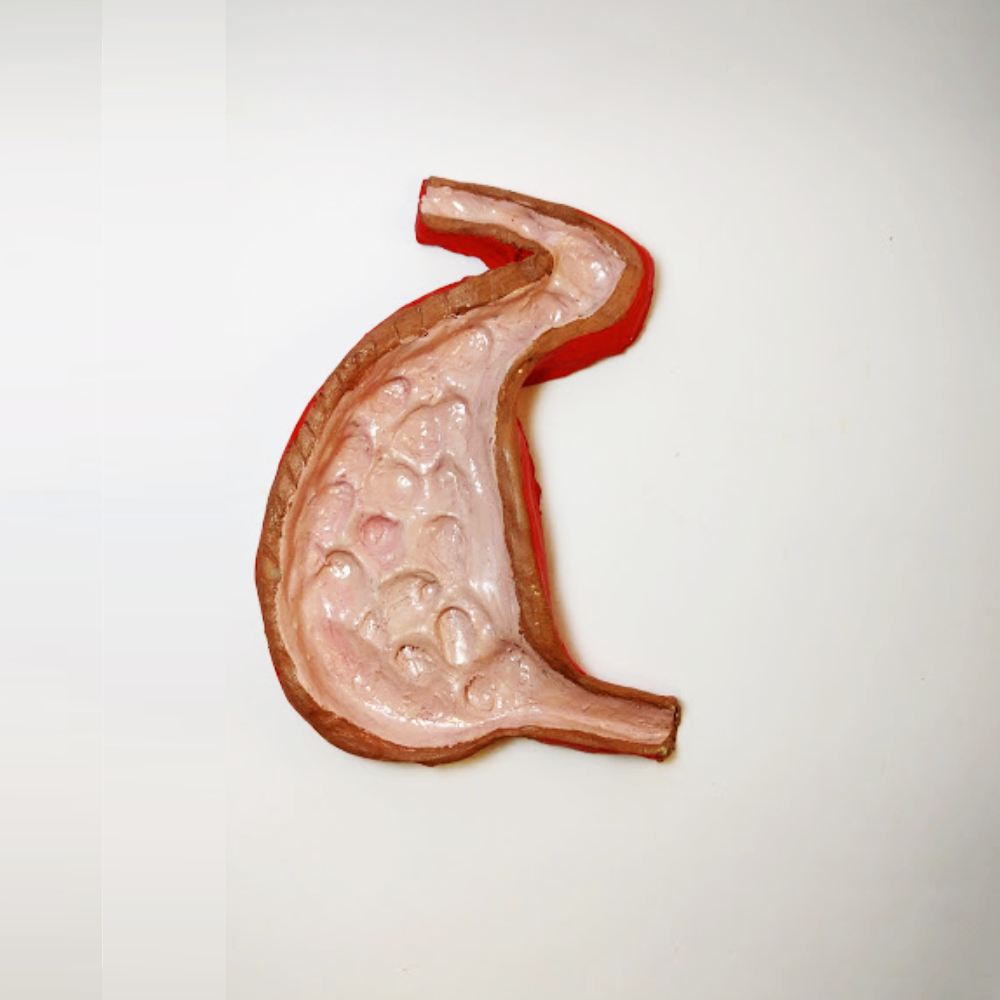
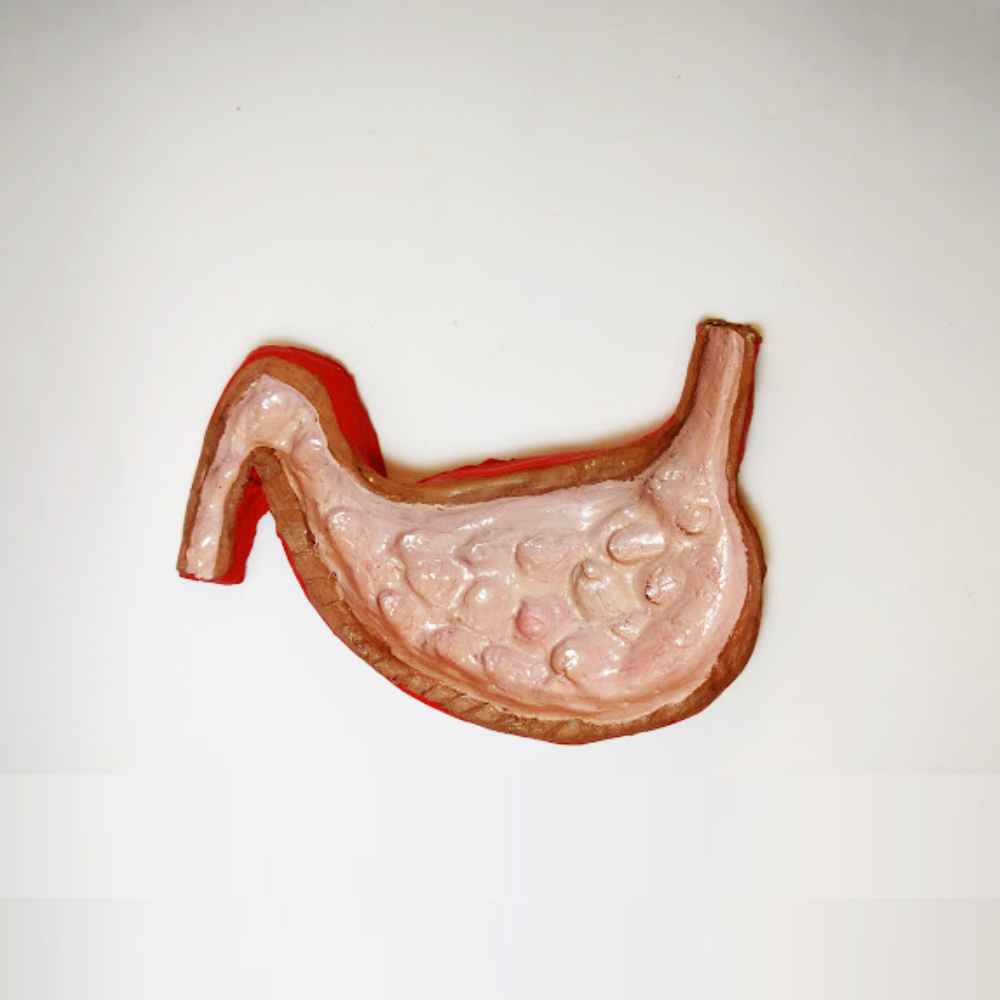
ajeitando as imagens viradas

diff --git a/Study.html b/Study.html
@@ -145,7 +145,7 @@
              <br><br>&emsp; Aqui abaixo você pode escolher que assunto deseja estudar:  </p>
               
                 <br>  
-              <hr color="#E0E0E0" size=1.9px >
+              <hr color="#E0E0E0" size="1.9px" >
               <br>
           
               
@@ -155,13 +155,13 @@
             
               
             
-            <hr color="#E0E0E0" size=1.9px width=300px style="margin-top:40px;">'
+            <hr color="#E0E0E0" size="1.9px" width="300px" style="margin-top:40px;">'
             <!-- bloco Locomotor -->
             
                 <a href="SistemaLocomotor.html">
                 <div class="card-item z-depth-2 " style="margin-top: 70px">              
                     <div class="center" >
-                        <img src="Imagens/Locomotor/locomotor.jpg" width=200px  style="margin-top:15px; border-radius: 20px; margin-top: 45px;">
+                        <img src="Imagens/Locomotor/locomotor.jpg" width="200px"  style="margin-top:15px; border-radius: 20px; margin-top: 45px;">
                     </div>
                     <div class="center" style="font-size: 26px ; color: #212121
                                        ; font-family: 'Lato', sans-serif; padding-top: 3%;"> Sistema Locomotor </div>
@@ -174,41 +174,41 @@
                 <a href="SistemaDigestorio.html">
                 <div class="card-item z-depth-2 " style="margin-top: 70px">              
                     <div class="center" >
-                        <img src="Imagens/Digestorio/Intro.jpg" width=200px  style="margin-top:15px; border-radius: 20px; margin-top: 45px;">
+                        <img src="Imagens/Digestorio/Intro.jpg" width="200px"  style="margin-top:15px; border-radius: 20px; margin-top: 45px;">
                     </div>
                     <div class="center" style="font-size: 26px ; color: #212121
                                        ; font-family: 'Lato', sans-serif; padding-top: 3%;"> Sistema Digestório </div>
                 </div>
                 </a>  
                 
-             <hr color="#E0E0E0" size=1.9px width=300px style="margin-top:40px;">'
+             <hr color="#E0E0E0" size="1.9px" width="300px" style="margin-top:40px;">'
             <!-- bloco circulatório -->
             
                 <a href="SistemaCirculatorio.html">
                 <div class="card-item z-depth-2 " style="margin-top: 70px">              
                     <div class="center" >
-                        <img src="Imagens/SistemaCirculatorio.jpeg" width=160px  style="margin-top:15px; border-radius: 20px; margin-top: 45px;">
+                        <img src="Imagens/SistemaCirculatorio.jpeg" width="160px"  style="margin-top:15px; border-radius: 20px; margin-top: 45px;">
                     </div>
                     <div class="center" style="font-size: 26px ; color: #212121
                                        ; font-family: 'Lato', sans-serif; padding-top: 3%;"> Sistema Circulatório </div>
                 </div>
                 </a>
              
-            <hr color="#E0E0E0" size=1.9px width=300px style="margin-top:40px;">  
+            <hr color="#E0E0E0" size="1.9px" width="300px" style="margin-top:40px;">  
               
             <!-- bloco reprodutor-->
                
                 <!--<a href="http://google.com">-->
                 <div class="card-item z-depth-2 " style="margin-top: 70px">              
                     <div class="center" >
-                        <img src="Imagens/SistemaReprodutor.jpeg" width=160px  style="margin-top:15px; border-radius: 20px; margin-top: 45px;">
+                        <img src="Imagens/SistemaReprodutor.jpeg" width="160px"  style="margin-top:15px; border-radius: 20px; margin-top: 45px;">
                     </div>
                     <div class="center" style="font-size: 26px ; color: #212121
                                        ; font-family: 'Lato', sans-serif; padding-top: 3%;"> Sistema Reprodutor </div>
                 </div>
                 <!--</a> -->
              
-            <hr color="#E0E0E0" size=1.9px width=300px style="margin-top:40px;">'  
+            <hr color="#E0E0E0" size="1.9px" width="300px" style="margin-top:40px;">'  
               
             
            
@@ -216,42 +216,42 @@
               
                 <div class="card-item z-depth-2 " style="margin-top: 70px">              
                     <div class="center">
-                        <img src="http://www.cartolafcmix.com/wp-content/uploads/2016/05/video-em-breve.jpg" width=160px  style="margin-top:15px; border-radius: 20px; margin-top: 45px;">
+                        <img src="http://www.cartolafcmix.com/wp-content/uploads/2016/05/video-em-breve.jpg" width="160px"  style="margin-top:15px; border-radius: 20px; margin-top: 45px;">
                     </div>
                     <div class="center" style="font-size: 26px ; color: #212121
                                        ; font-family: 'Lato', sans-serif; padding-top: 3%;"> Sistema Urinário </div>
                 </div>
              
-            <hr color="#E0E0E0" size=1.9px width=300px style="margin-top:40px;">  
+            <hr color="#E0E0E0" size="1.9px" width="300px" style="margin-top:40px;">  
             
             <!-- bloco respiratorio -->
               
                 <div class="card-item z-depth-2 " style="margin-top: 70px">              
                     <div class="center">
-                        <img src="http://www.cartolafcmix.com/wp-content/uploads/2016/05/video-em-breve.jpg" width=160px  style="margin-top:15px; border-radius: 20px; margin-top: 45px;">
+                        <img src="http://www.cartolafcmix.com/wp-content/uploads/2016/05/video-em-breve.jpg" width="160px"  style="margin-top:15px; border-radius: 20px; margin-top: 45px;">
                     </div>
                     <div class="center" style="font-size: 26px ; color: #212121
                                        ; font-family: 'Lato', sans-serif; padding-top: 3%;"> Sistema Respiratório </div>
                 </div>
              
-            <hr color="#E0E0E0" size=1.9px width=300px style="margin-top:40px;">  
+            <hr color="#E0E0E0" size="1.9px" width="300px" style="margin-top:40px;">  
             
             <!-- bloco endocrino -->
             
                 <div class="card-item z-depth-2 " style="margin-top: 70px">              
                     <div class="center">
-                        <img src="http://www.cartolafcmix.com/wp-content/uploads/2016/05/video-em-breve.jpg" width=160px  style="margin-top:15px; border-radius: 20px; margin-top: 45px;">
+                        <img src="http://www.cartolafcmix.com/wp-content/uploads/2016/05/video-em-breve.jpg" width="160px"  style="margin-top:15px; border-radius: 20px; margin-top: 45px;">
                     </div>
                     <div class="center" style="font-size: 26px ; color: #212121
                                        ; font-family: 'Lato', sans-serif; padding-top: 3%;"> Sistema Endócrino </div>
                 </div>
              
-            <hr color="#E0E0E0" size=1.9px width=300px style="margin-top:40px;">    
+            <hr color="#E0E0E0" size="1.9px" width="300px" style="margin-top:40px;">    
             <!-- bloco excretor -->
               
                 <div class="card-item z-depth-2 " style="margin-top: 70px">              
                     <div class="center">
-                        <img src="http://www.cartolafcmix.com/wp-content/uploads/2016/05/video-em-breve.jpg" width=160px  style="margin-top:15px; border-radius: 20px; margin-top: 45px;">
+                        <img src="http://www.cartolafcmix.com/wp-content/uploads/2016/05/video-em-breve.jpg" width="160px"  style="margin-top:15px; border-radius: 20px; margin-top: 45px;">
                     </div>
                     <div class="center" style="font-size: 26px ; color: #212121
                                        ; font-family: 'Lato', sans-serif; padding-top: 3%;"> Sistema Excretor </div>
